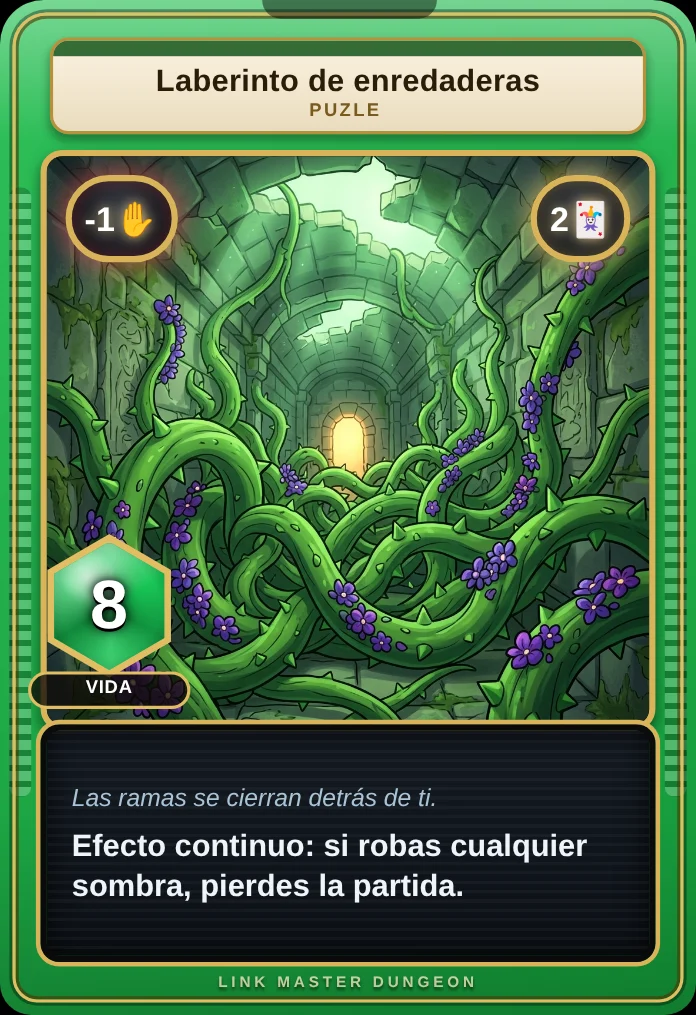
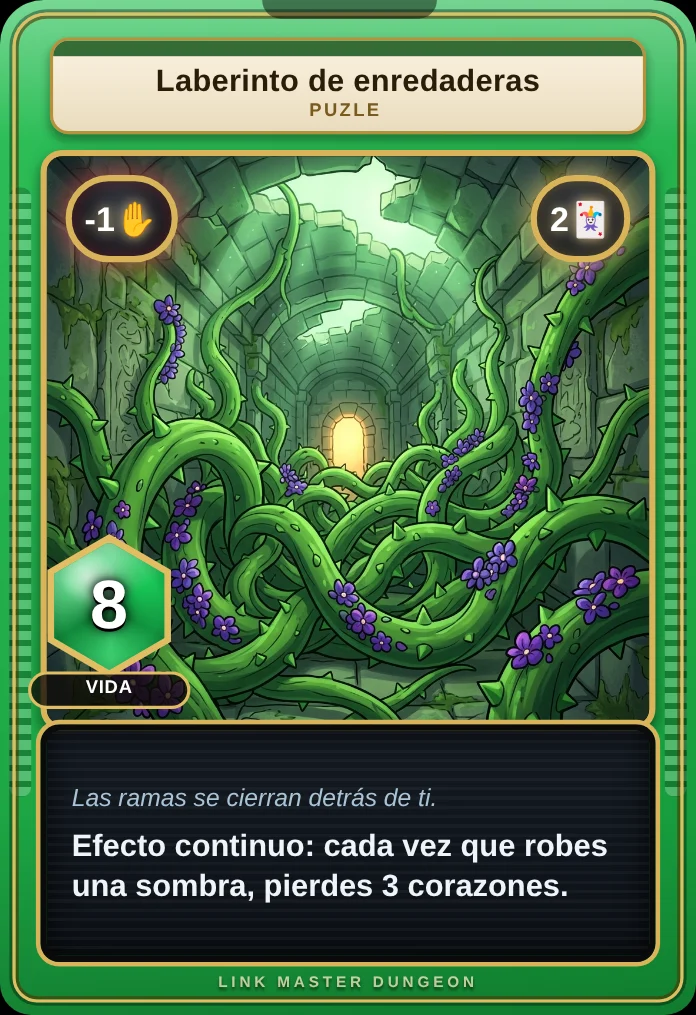
Torre: t03 y t18 ahora quitan 3 corazones en lugar de derrota instantánea
Claude-Session: https://claude.ai/code/session_01SGPUyGANHi7UMmwxJVo2zu

Changed region(s): [[0.0905, 0.8246, 0.875, 0.8857]]

diff --git a/index.html b/index.html
@@ -1982,7 +1982,7 @@ const totB=()=>B.act?sumB()+(B.act===p06()?2*fireDisc():0):0;
 const blk=c=>S.cross.some(y=>y&&y.id==='t06')&&c.id!=='t06';
 /* efecto al entrar a la cruz (t09 absorbe el daño de los demás; los mini-jefes t20-t22 quitan 1 al reloj): se muestra y luego se aplica */
 /* cartas con efecto continuo: al entrar a la cruz se muestran en grande avisando su efecto (el texto sale de la propia carta) */
-const CONT={t03:'Si robas cualquier sombra, pierdes la partida',
+const CONT={t03:'Cada vez que robes una sombra, pierdes 3 corazones',
   t05:'Cada vez que saques oscuridad en la tirada, debes descartar una carta',
   t06:'No se le pueden quitar PV a ningún otro enfrentamiento',
   t07:'No puede ser descartado. Cada vez que otro enfrentamiento sea descartado, sufres 2 de daño',
@@ -1991,7 +1991,7 @@ const CONT={t03:'Si robas cualquier sombra, pierdes la partida',
   t12:'Los demás enfrentamientos tienen −2 PV. Si fallas otro enfrentamiento, sufres su penalización otra vez',
   t14:'No puedes enfrentarlo. Sufres 1 de daño por cada carta que descartes de tu mano',
   t17:'Todo el daño que sufras de otras cartas se duplica',
-  t18:'Si debes descartar más cartas de las que tienes en la mano, pierdes la partida',
+  t18:'Cada vez que descartes cartas de tu mano, pierdes 3 corazones',
   t19:'Pierde 2 PV al final de cada turno',
   t23:'Cada vez que falles otro enfrentamiento y saques oscuridad, sufres 1 de daño'};
 function entryFx(i){const x=S.cross[i];if(!x||x.id[0]!=='t')return null;
@@ -2246,11 +2246,12 @@ function sweep(cont){
   if(id[0]==='g')S.cross[i]={id:'g'+pad(+id.slice(1)+4),p:0};else if(id==='t27'){S.apart.push(id);S.cross[i]=null}else{S.comp.push(id);S.cross[i]=null}
   render();
   res2(id,'<div class="pv">¡Enfrentamiento completado!</div><p>Se quedó sin PV.</p><p>Recompensa:</p>',[...(spec[id]||[[],[]])[0]],()=>sweep(cont))}
-function discCard(id){S.hand.splice(S.hand.indexOf(id),1);S.disc.push(id);qDisc(id);if(S.cross.some(y=>y&&y.id==='t14'))hurt(1)}
-function pickHand(n,b,r){if(!r&&n&&S.mesa.includes('k04'))n++;if(n>S.hand.length&&S.cross.some(y=>y&&y.id==='t18')){S.hp=0;S.why='No tenías cartas suficientes para descartar con este enfrentamiento en juego.';S.whyC=['t18']}if(!n||!S.hand.length)return b();ov(null,S.hand.map(x=>[x,()=>{discCard(x);render();pickHand(n-1,b,1);return 1},0,'',x]),`<p>Descarta ${n} carta(s)</p>`,1)}
+let T18T=0;
+function discCard(id){S.hand.splice(S.hand.indexOf(id),1);S.disc.push(id);qDisc(id);if(S.cross.some(y=>y&&y.id==='t18')&&Date.now()-T18T>1500){T18T=Date.now();hurt(3);if(S.hp<=0){S.why='Las Arenas movedizas te quitaron tus últimos corazones al descartar.';S.whyC=['t18']}}if(S.cross.some(y=>y&&y.id==='t14'))hurt(1)}
+function pickHand(n,b,r){if(!r&&n&&S.mesa.includes('k04'))n++;if(!n||!S.hand.length)return b();ov(null,S.hand.map(x=>[x,()=>{discCard(x);render();pickHand(n-1,b,1);return 1},0,'',x]),`<p>Descarta ${n} carta(s)</p>`,1)}
 const hurt=(n,r)=>{const h0=S.hp;if(MALL&&n>0){fxStamp('¡DAÑO EVITADO!','ok');return}if(M18&&n>0){n--;M18=0;fxStamp('¡DAÑO EVITADO!','ok')}S.hp=Math.max(0,S.hp-n*(!r&&S.cross.some(y=>y&&y.id==='t17')?2:1)-(S.mesa.includes('k05')?1:0));if(S.hp<h0)fxHurt(h0,S.hp)};
 function kShow(id,back,hd){coopKEv(id);try{albGet(id,'v')}catch(e){}const n=+id.slice(1),f=S.final,bj=q=>{S.cross[0].p=Math.max(0,S.cross[0].p-q)};
-  if(S.cross.some(x=>x&&x.id==='t03')){S.hp=0;S.why='Robaste una sombra con este enfrentamiento en juego.';S.whyC=['t03']}
+  if(S.cross.some(x=>x&&x.id==='t03')){hurt(3);if(S.hp<=0){S.why='El Laberinto de enredaderas te quitó tus últimos corazones al robar una sombra.';S.whyC=['t03']}}
   const E={1:[f?'el jefe final recupera 5 PV':'quitar 1 al reloj del eclipse',()=>bj(f?5:1)],3:[f?'el jefe final recupera 10 PV':'quitar 2 al reloj del eclipse',()=>bj(f?10:2)],6:['sufrir 3 de daño',()=>hurt(3)]}[n],b=[];
   if(E)b.push(['Aplicar: '+E[0]+' y barajarla al mazo',()=>{E[1]();S.mesa.splice(S.mesa.indexOf(id),1);S.dK.push(id);shuf(S.dK);render();fxShufK();if(back){back();return 1}}]);
   else if(back)b.push(['Continuar',()=>{back();return 1}]);
